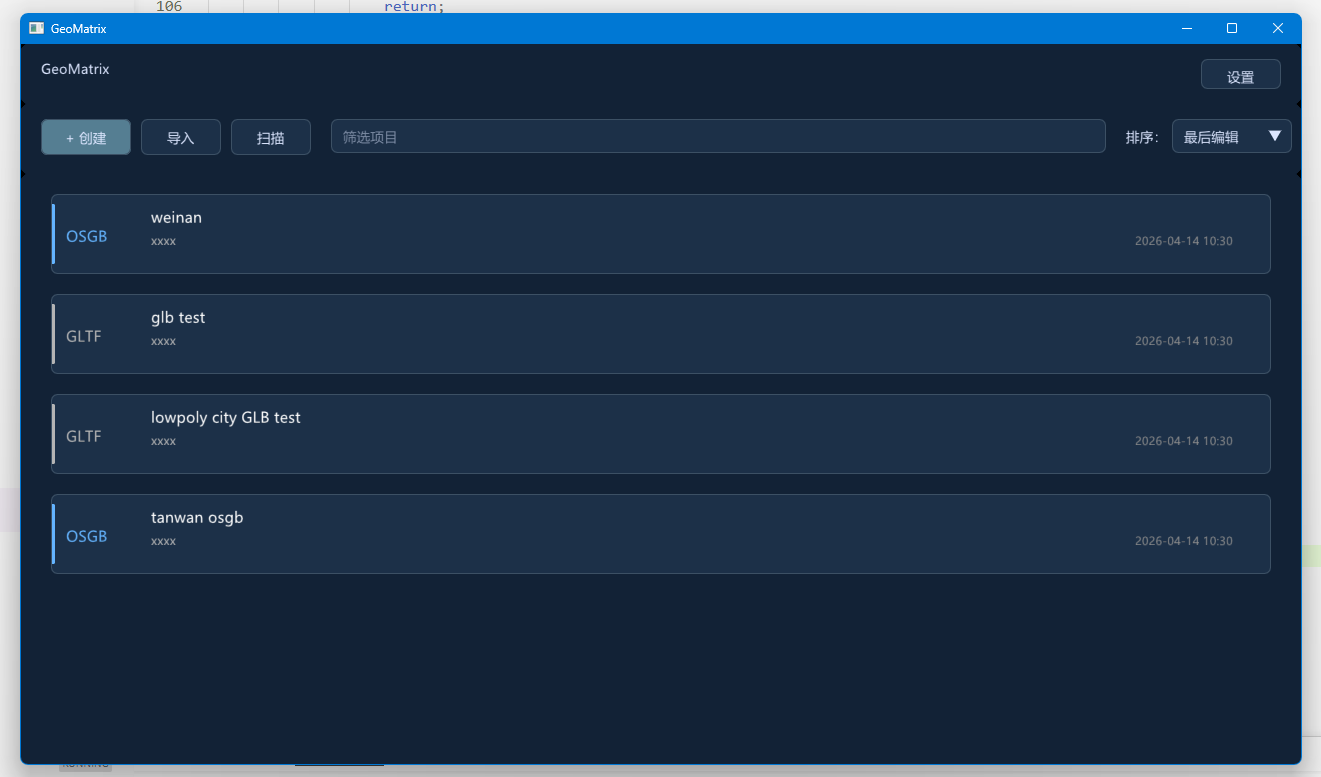
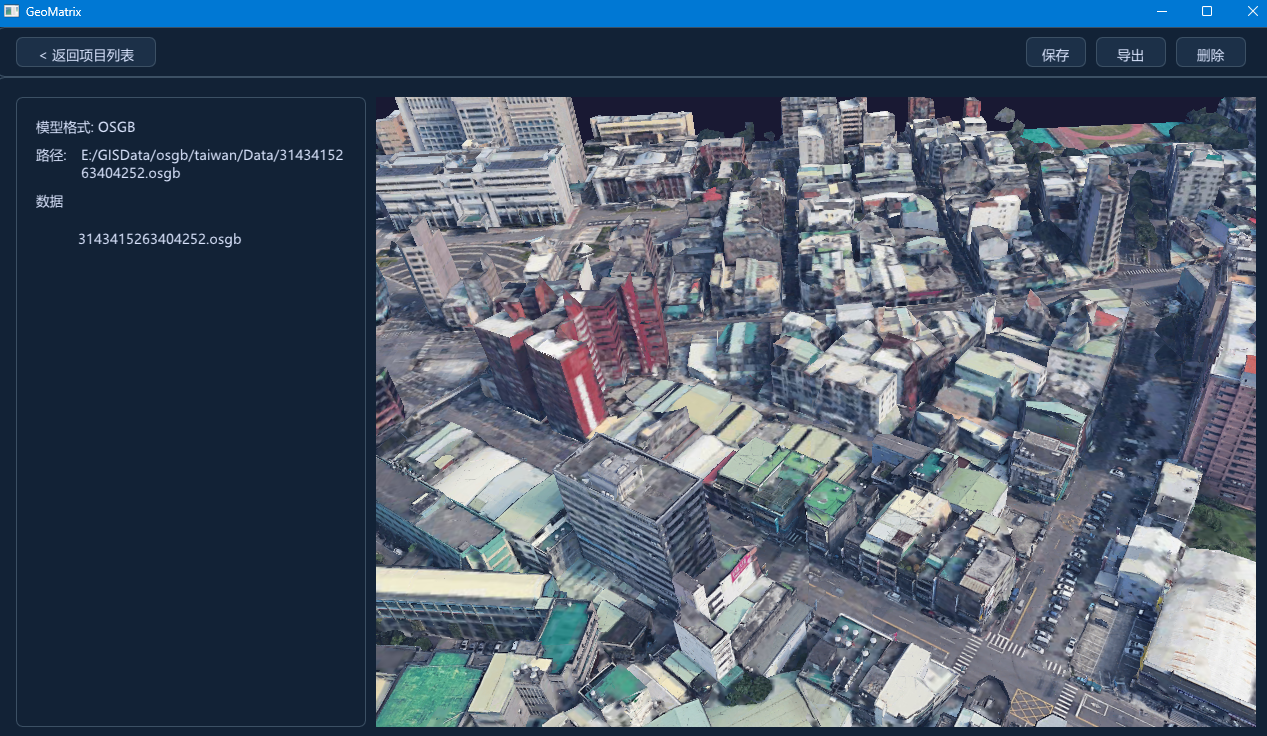
更新项目介绍

diff --git a/index.html b/index.html
@@ -1,116 +1,138 @@
-<!DOCTYPE html>
+<!doctype html>
 <html lang="zh-CN">
-<head>
-    <meta charset="UTF-8">
+  <head>
+    <meta charset="UTF-8" />
     <title>项目介绍</title>
     <style>
-        /* 全局样式与分页优化 */
-        * {
-            margin: 0;
-            padding: 0;
-            box-sizing: border-box;
-        }
+      /* 全局样式与分页优化 */
+      * {
+        margin: 0;
+        padding: 0;
+        box-sizing: border-box;
+      }
+      body {
+        font-family:
+          -apple-system, BlinkMacSystemFont, "Segoe UI", Roboto,
+          "Helvetica Neue", sans-serif;
+        line-height: 1.6;
+        color: #1f2d3d;
+        background: #fff;
+        padding: 2rem;
+        max-width: 1000px;
+        margin: 0 auto;
+      }
+      /* 打印样式 - 关键分页控制 */
+      @media print {
         body {
-            font-family: -apple-system, BlinkMacSystemFont, "Segoe UI", Roboto, "Helvetica Neue", sans-serif;
-            line-height: 1.6;
-            color: #1f2d3d;
-            background: #fff;
-            padding: 2rem;
-            max-width: 1000px;
-            margin: 0 auto;
+          padding: 0.75cm;
+          margin: 0;
         }
-        /* 打印样式 - 关键分页控制 */
-        @media print {
-            body {
-                padding: 0.75cm;
-                margin: 0;
-            }
-            /* 避免图片、代码块、表格跨页断裂 */
-            img, pre, code, table, .project-block, .tech-stack, .gif, .image-row {
-                page-break-inside: avoid;
-                break-inside: avoid;
-            }
-            h1, h2, h3, h4, h5, h6 {
-                page-break-after: avoid;
-                break-after: avoid;
-                page-break-inside: avoid;
-            }
-            /* 限制单张图片最大高度，防止强行换页留白 */
-            img {
-                max-height: 70vh;
-                object-fit: contain;
-                page-break-inside: avoid;
-            }
-            /* 保持项目连续 */
-            .project {
-                page-break-inside: avoid;
-                margin-bottom: 1.5rem;
-            }
+        /* 避免图片、代码块、表格跨页断裂 */
+        img,
+        pre,
+        code,
+        table,
+        .project-block,
+        .tech-stack,
+        .gif,
+        .image-row {
+          page-break-inside: avoid;
+          break-inside: avoid;
         }
-        /* 屏幕阅读样式 */
-        h1, h2, h3 {
-            margin-top: 1.5rem;
-            margin-bottom: 0.75rem;
-            border-bottom: 1px solid #eaecef;
-            padding-bottom: 0.3rem;
+        h1,
+        h2,
+        h3,
+        h4,
+        h5,
+        h6 {
+          page-break-after: avoid;
+          break-after: avoid;
+          page-break-inside: avoid;
         }
-        h1 { font-size: 2rem; }
-        h2 { font-size: 1.5rem; }
-        h3 { font-size: 1.25rem; }
+        /* 限制单张图片最大高度，防止强行换页留白 */
         img {
-            max-width: 100%;
-            border-radius: 8px;
-            margin: 1rem 0;
-            box-shadow: 0 2px 6px rgba(0,0,0,0.1);
+          max-height: 70vh;
+          object-fit: contain;
+          page-break-inside: avoid;
         }
-        .badge-list {
-            display: flex;
-            flex-wrap: wrap;
-            gap: 8px;
-            margin: 10px 0;
-        }
-        .badge-list img {
-            margin: 0;
-            box-shadow: none;
-        }
-        hr {
-            margin: 2rem 0;
-        }
+        /* 保持项目连续 */
         .project {
-            page-break-inside: avoid;
-            margin-bottom: 2rem;
+          page-break-inside: avoid;
+          margin-bottom: 1.5rem;
         }
-        .links {
-            margin-top: 10px;
-            font-size: 0.9rem;
-        }
-        .links a {
-            color: #0366d6;
-            text-decoration: none;
-        }
-        pre {
-            background: #f6f8fa;
-            padding: 12px;
-            border-radius: 6px;
-            overflow-x: auto;
-        }
-        code {
-            font-family: 'SF Mono', Consolas, monospace;
-        }
-        footer {
-            margin-top: 3rem;
-            text-align: center;
-            font-size: 0.8rem;
-            color: #6a737d;
-        }
+      }
+      /* 屏幕阅读样式 */
+      h1,
+      h2,
+      h3 {
+        margin-top: 1.5rem;
+        margin-bottom: 0.75rem;
+        border-bottom: 1px solid #eaecef;
+        padding-bottom: 0.3rem;
+      }
+      h1 {
+        font-size: 2rem;
+      }
+      h2 {
+        font-size: 1.5rem;
+      }
+      h3 {
+        font-size: 1.25rem;
+      }
+      img {
+        max-width: 100%;
+        border-radius: 8px;
+        margin: 1rem 0;
+        box-shadow: 0 2px 6px rgba(0, 0, 0, 0.1);
+      }
+      .badge-list {
+        display: flex;
+        flex-wrap: wrap;
+        gap: 8px;
+        margin: 10px 0;
+      }
+      .badge-list img {
+        margin: 0;
+        box-shadow: none;
+      }
+      hr {
+        margin: 2rem 0;
+      }
+      .project {
+        page-break-inside: avoid;
+        margin-bottom: 2rem;
+      }
+      .links {
+        margin-top: 10px;
+        font-size: 0.9rem;
+      }
+      .links a {
+        color: #0366d6;
+        text-decoration: none;
+      }
+      pre {
+        background: #f6f8fa;
+        padding: 12px;
+        border-radius: 6px;
+        overflow-x: auto;
+      }
+      code {
+        font-family: "SF Mono", Consolas, monospace;
+      }
+      footer {
+        margin-top: 3rem;
+        text-align: center;
+        font-size: 0.8rem;
+        color: #6a737d;
+      }
     </style>
     <!-- 引入 marked 解析 Markdown 到 HTML -->
     <script src="https://cdn.jsdelivr.net/npm/marked/marked.min.js"></script>
-</head>
-<body>
+  </head>
+  <body>
     <div id="content"></div>
     <script>
-        const markdownContent = `
+      const markdownContent = `
 [![GitHub followers](https://img.shields.io/github/followers/wxzen?style=social)](https://github.com/wxzen)
 
 ✨ 全栈 Web 开发  | 开源爱好者 | 构建实用工具
@@ -133,7 +155,7 @@
 ## 📂 做过的一些项目
 ### 🔧 GeoMatrix – 通用 3D 模型数据处理与可视化工具（开发中）
 一款轻量级 3D 模型数据处理与可视化工具。自研 C++ OpenGL 渲染引擎，实现 PBR+IBL 光照管线与 HDR 环境贴图，支持 glTF/GLB、OSGB 倾斜摄影、3D Tiles、点云等多源异构格式的无缝导入、实时预览、编辑及格式转换。
-![alt text](assets/images/GeoMatrix-detail.png)
+![alt text](assets/images/GeoMatrix-main.png)![alt text](assets/images/GeoMatrix-export.png)
  
 
 ![C++](https://img.shields.io/badge/-C++-00599C?style=flat-square&logo=c%2B%2B&logoColor=white)
@@ -231,8 +253,9 @@
 
         `;
 
-        // 使用 marked 解析 markdown
-        document.getElementById('content').innerHTML = marked.parse(markdownContent);
+      // 使用 marked 解析 markdown
+      document.getElementById("content").innerHTML =
+        marked.parse(markdownContent);
     </script>
-</body>
+  </body>
 </html>